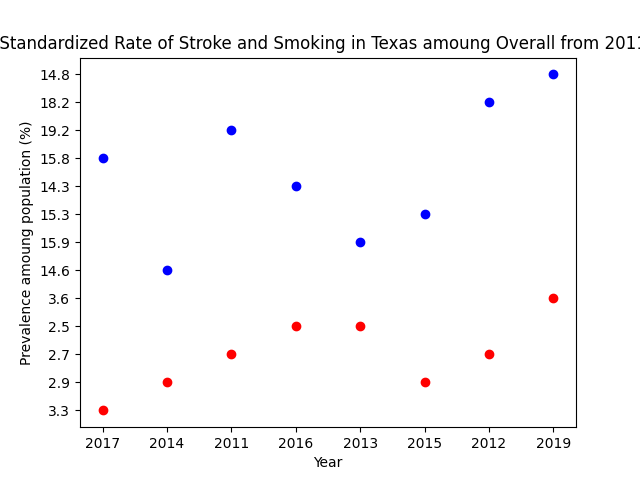
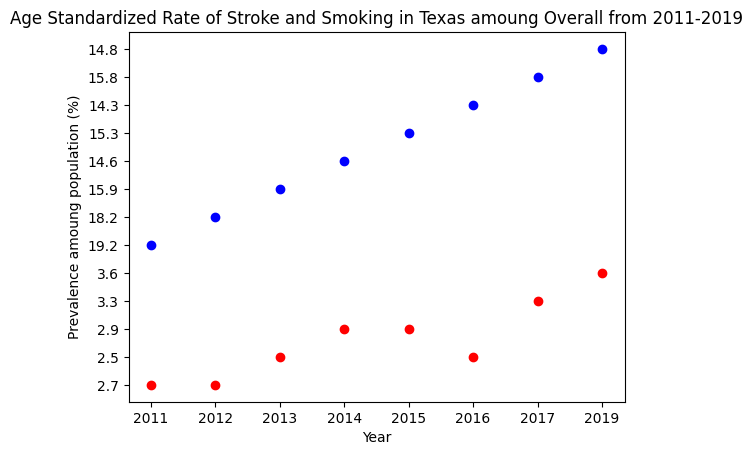
Test image

diff --git a/src/worker.py b/src/worker.py
@@ -145,14 +145,25 @@ def graph_rf(para:dict):
         # return {'disease' : select_series(location=location, topic=disease, breakout=breakout), 'rf': select_series(location=location, topic=risk_factor, breakout=breakout)}
         rf_data = select_series(location=location, topic=risk_factor, breakout=breakout)
         dis_data = select_series(location=location, topic=disease, breakout=breakout)
-        plt.scatter(dis_data.keys(), dis_data.values(), color = "r", label = f"{disease}")
-        plt.scatter(rf_data.keys(), rf_data.values(), color = "b", label = f"{risk_factor}")
+        
+        # sort the data by the keys
+        rf_sorted = {}
+        for i in sorted(rf_data.keys()):
+            rf_sorted[i] = rf_data[i]
+
+        dis_sorted = {}
+        for i in sorted(dis_data.keys()):
+            dis_sorted[i] = dis_data[i]
+        
+        # plotting
+        plt.scatter(dis_sorted.keys(), dis_sorted.values(), color = "r", label = f"{disease}")
+        plt.scatter(rf_sorted.keys(), rf_sorted.values(), color = "b", label = f"{risk_factor}")
         plt.xlabel("Year")
         plt.ylabel(f"Prevalence amoung population (%)")
         plt.title(f"Age Standardized Rate of {disease.title()} and {risk_factor.title()} in {location} amoung {breakout} from {min(dis_data.keys())}-{max(dis_data.keys())}")
     
     # saving image to results db
-    plt.savefig('/output_image.png')
+    plt.savefig('/output_image.png', bbox_inches='tight')
     return
 
 @q.worker
